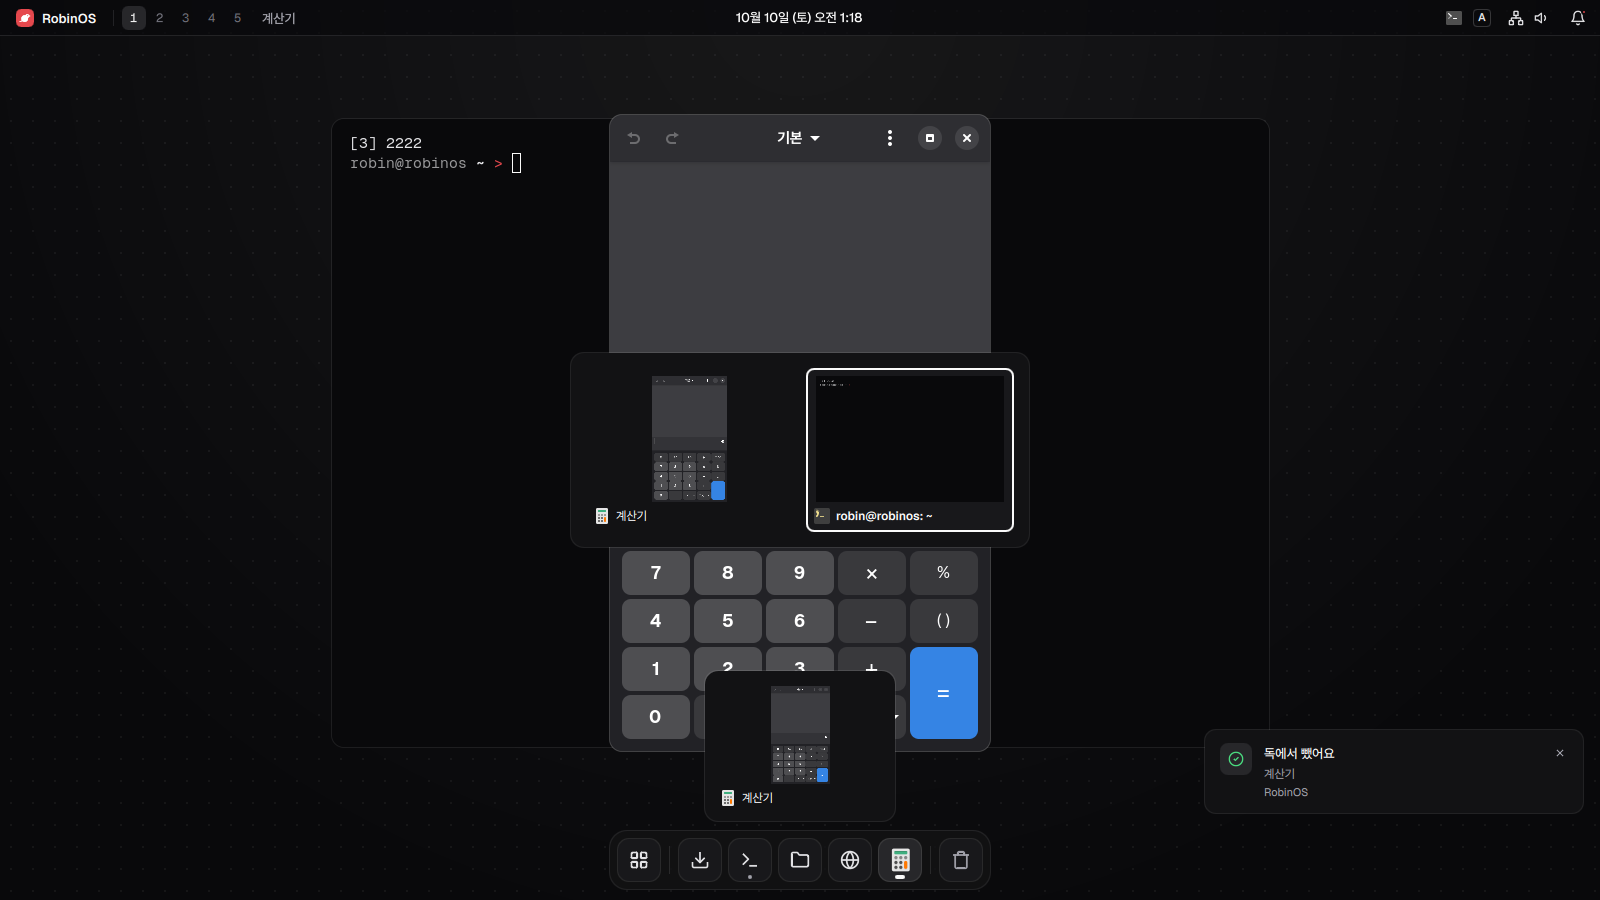
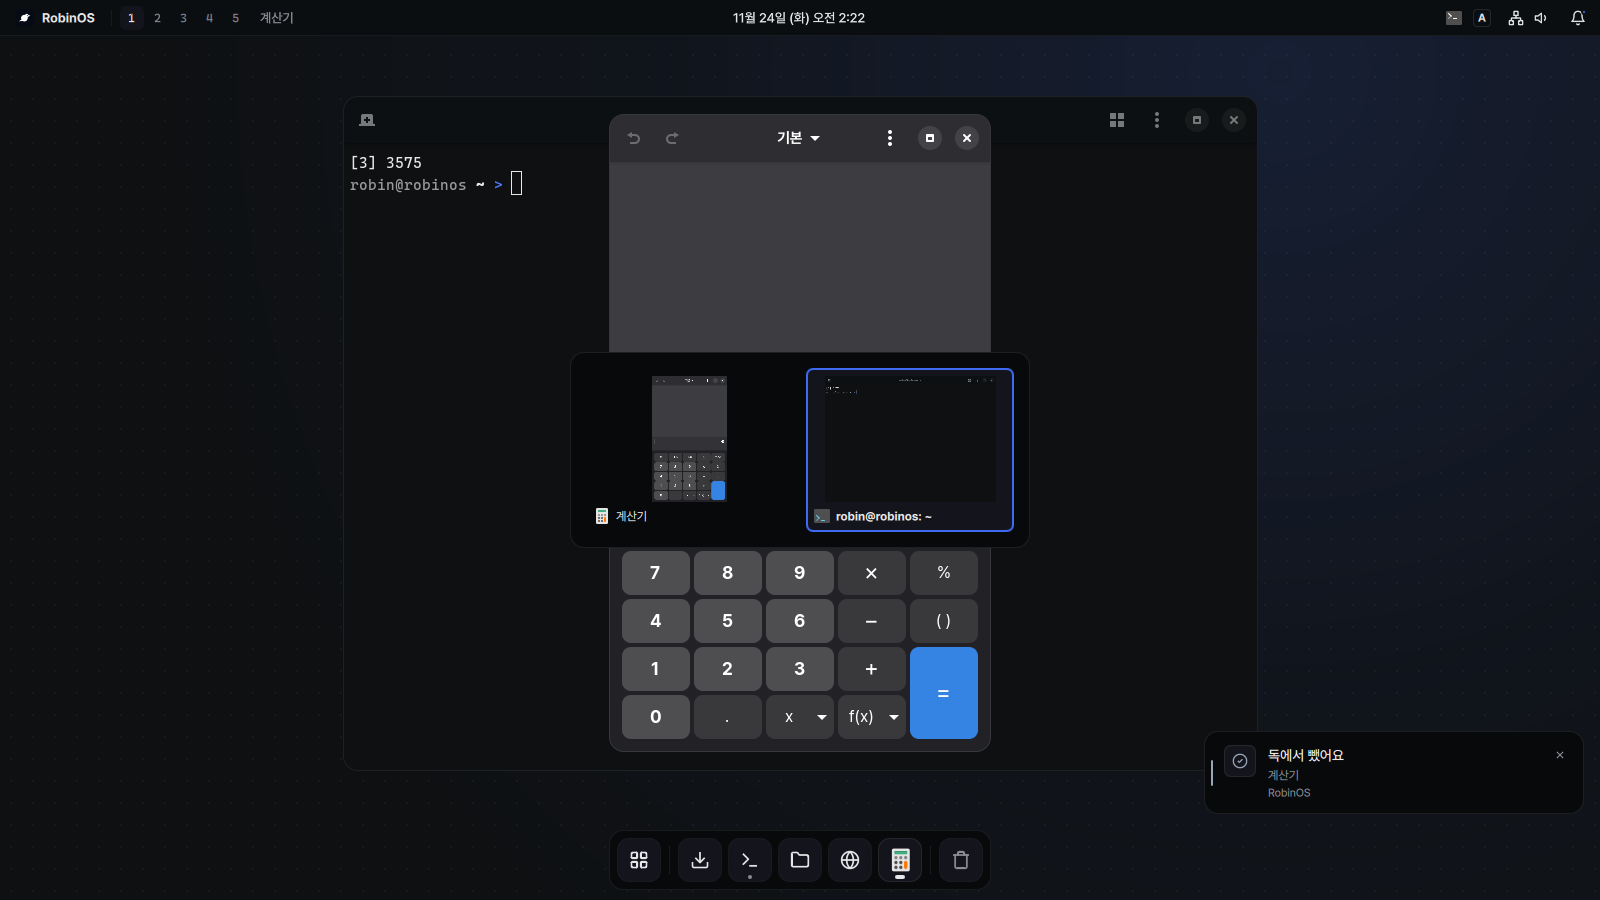
README: robin-ui V5 화면으로 스크린샷 바꾸기(T-180 ⑦)
2026-11-24 묶음 검증의 부팅 테스트 장면 13-launcher, 23-quick-settings, 68-alt-tab, 79-light-learn-center예요.

diff --git a/README.md b/README.md
@@ -14,11 +14,11 @@ Arch Linux 위에 셸, 설치기, 업데이트 저장소, 스냅샷 복구를 Ro
 
 ## 화면
 
-부팅 테스트(VM, 1600×900)가 찍은 화면이에요. 다크·라이트 모드를 고를 수 있어요. 아래 스크린샷은 robin-ui V5로 바꾸기 전 모습이라 새로 찍을 거예요(T-180).
+부팅 테스트(VM, 1600×900)가 찍은 화면이에요. 다크·라이트 모드를 고를 수 있어요.
 
 | 런처 (`Win+Space`) | 빠른 설정 (`Win+S`) |
 |---|---|
-| ![앱, 학습 미션, 보안 랩을 함께 찾는 런처](docs/screenshots/launcher.png) | ![Wi-Fi, 블루투스, 방해 금지, 화면 배율, 음량이 있는 빠른 설정](docs/screenshots/quick-settings.png) |
+| ![설치, 앱, 학습 미션, 보안 랩, 명령을 함께 찾는 런처](docs/screenshots/launcher.png) | ![네트워크, 블루투스, 방해 금지, 전원 모드, 화면 배율, 음량이 있는 빠른 설정](docs/screenshots/quick-settings.png) |
 | **창 전환 (`Alt+Tab`)** | **학습 센터 (라이트 모드)** |
 | ![창 미리보기와 함께 최근에 쓴 순서로 나오는 Alt+Tab](docs/screenshots/alt-tab.png) | ![미션 45개의 진행도와 다음 미션이 있는 학습 센터](docs/screenshots/learn-center.png) |
 
